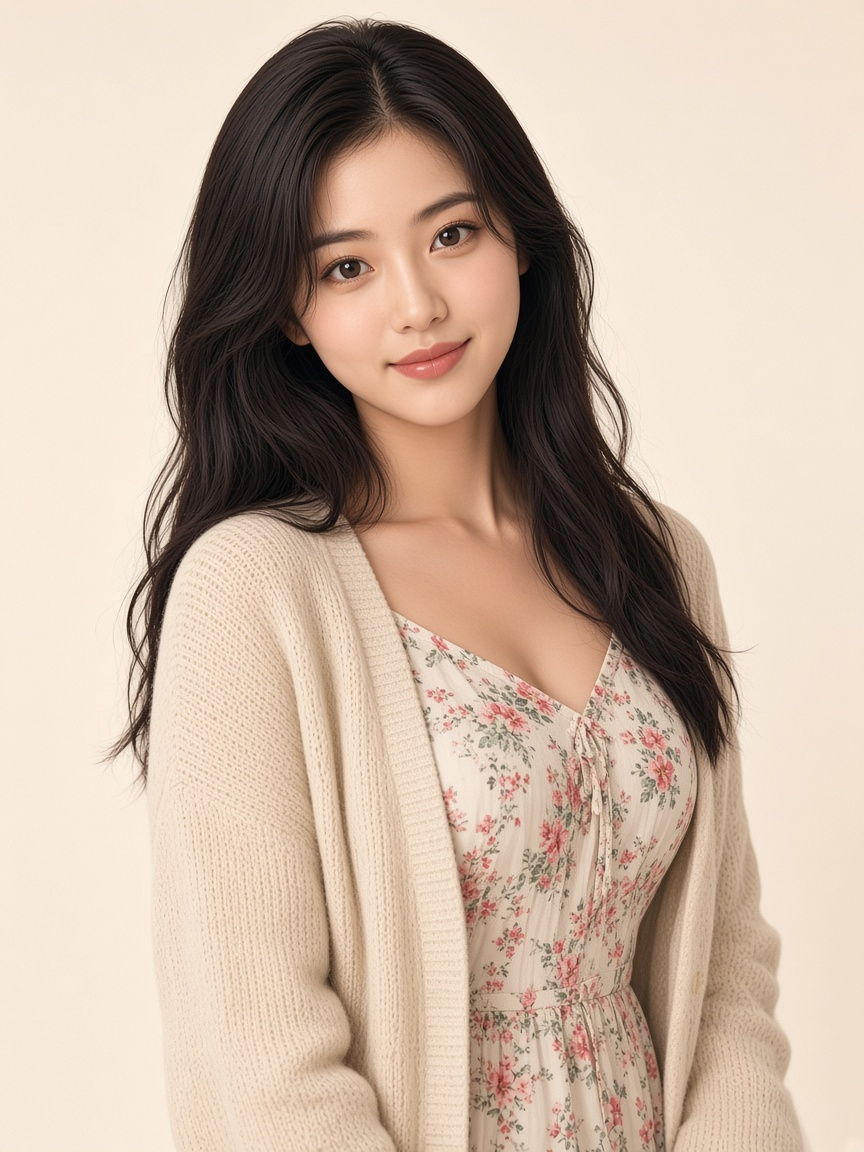
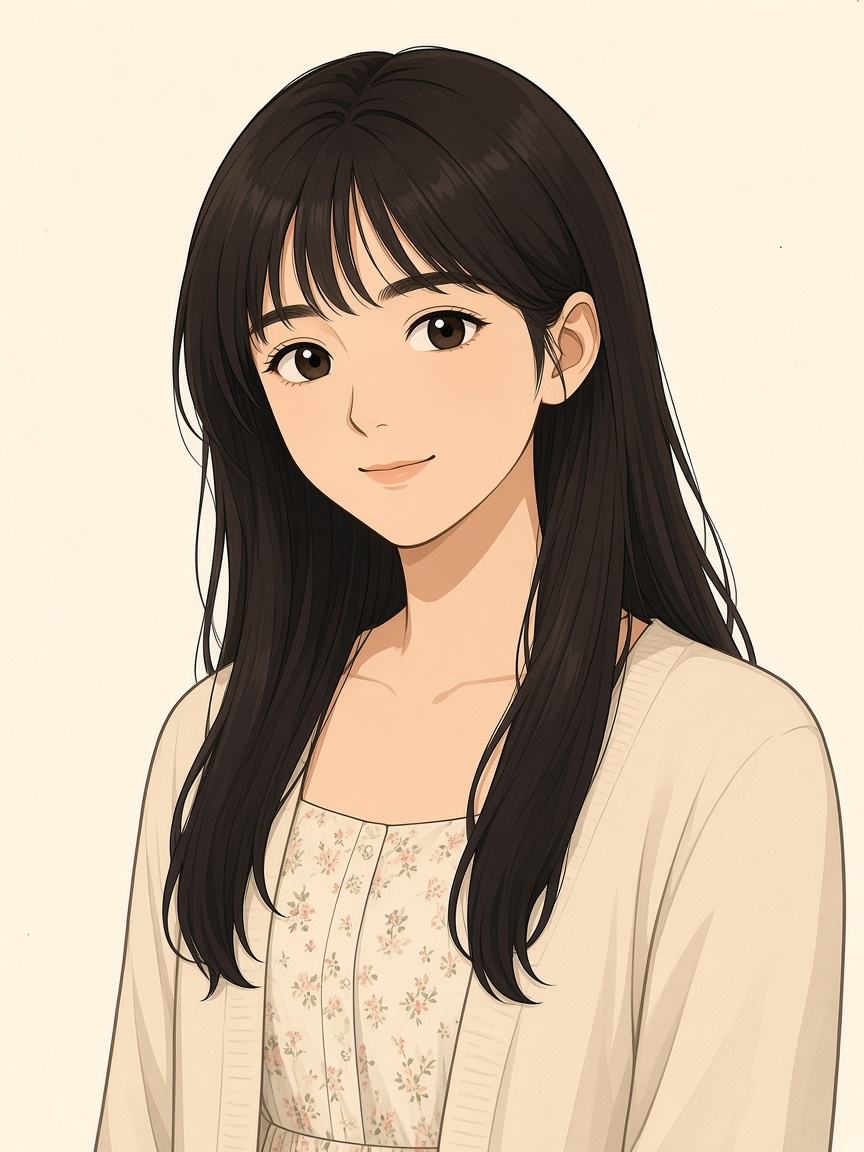
Soft: style-lock era_stars busts ×15 (?v=19w)
Install the five era-star stems × default/smile/frown cel-shade busts.
Silhouettes stay off the tree. SAVE and ?v= stay 19w. Soft≠PASS.

diff --git a/assets/story/era_stars/MANIFEST.md b/assets/story/era_stars/MANIFEST.md
@@ -1,14 +1,65 @@
-# Era stars — MANIFEST
+# Era Stars bust／silhouette — MANIFEST
 
-> 2026-11-04 · 19w · 只掛本 pack 入面已 Soft 過嘅 `so_jiyan`  
-> Soft≠PASS。唔 tip。1989–1992 HOLD。出圖 HOLD。遠觀仍係純文字，呢批 bust 未接剪影。
+> **時間：** 2026-11-05（Asia/Hong_Kong）  
+> **Brief：** `content/ART_BRIEF_MVP_ERA_STARS_v1.md`  
+> **LOOKS：** `content/PLAN_CHAR_LOOKS_REF_v1.md` §C  
+> **Pipeline：** cursor **GenerateImage**（refs `hero_awi.jpg`＋`char_hero_bust_default.png`）→ Pillow cover-crop **864×1152** PNG  
+> **狀態：** **Style-lock redo 2026-11-05** — 5 人 ×3 表情＝15 bust 已換平面動畫／cel-shade；Soft≠PASS；**唔 tip LIVE**；**1989–1992 HOLD**；**silhouettes 後掛（未動）**
 
-## 已合
+## Style-lock MD5（installed live）
 
-| id | display | files | dims |
-|---|---|---|---|
-| `so_jiyan` | 蘇芷茵 | `so_jiyan_bust_{default,smile,frown}.png` | 864×1152 |
+| file | MD5 |
+|---|---|
+| `liu_bingxing_bust_default.png` | `7c82553e3b6f47c4609486e23c23361f` |
+| `liu_bingxing_bust_frown.png` | `2eb8d4bb888f19f80ae80202e6e5e166` |
+| `liu_bingxing_bust_smile.png` | `225d30e6214c14c185e302d984fe239f` |
+| `luk_baakyin_bust_default.png` | `1b8f1229b3cac9dc54d62454d4c417b0` |
+| `luk_baakyin_bust_frown.png` | `b6cbfd292a4a14048727ea351012ca9b` |
+| `luk_baakyin_bust_smile.png` | `44ec979ade01184b81629adcf4143e60` |
+| `ngai_wingnaam_bust_default.png` | `90305768c0bf93c538b6c6a8e84d554c` |
+| `ngai_wingnaam_bust_frown.png` | `1e86e3dbca3c7d0c35c500df25924992` |
+| `ngai_wingnaam_bust_smile.png` | `796214d76561cc8e6c1553a42827e7a1` |
+| `so_jiyan_bust_default.png` | `f54d3e27db3b11cc2eb2bdd9d9bfbc77` |
+| `so_jiyan_bust_frown.png` | `ae224754340405678b5d58a00112e207` |
+| `so_jiyan_bust_smile.png` | `9d2473603c34be753bc551c7c4450629` |
+| `yip_manji_bust_default.png` | `e8860a880fd1c46c88b577699c6a1fb1` |
+| `yip_manji_bust_frown.png` | `0782825acadecc6978f271f0c3c09f60` |
+| `yip_manji_bust_smile.png` | `bd9695324fc950a0b8d4dba03a045d89` |
 
-本 pack 冇其他 era star 檔。`luk_baakyin`／`liu_bingxing`／`ngai_wingnaam`／`yip_manji` 唔係今次合入。
+## Inventory
 
-Soft≠PASS。
+| id | display | files | dims | notes |
+|---|---|---|---|---|
+| `luk_baakyin` | 陸柏言 | `*_bust_{default,smile,frown}.png` | 864×1152 | 雙排扣 oversized 西裝＋高領；default／smile／frown；style-lock 2026-11-05 |
+| `yip_manji` | 葉敏芝 | bust×3 | 864×1152 | 貼身 dusty-rose 針織＋高腰感；自信／笑／鼓腮 pout |
+| `so_jiyan` | 蘇芷茵 | bust×3 | 864×1152 | 淺色開襟＋碎花；恬靜／淺笑／微憂 |
+| `liu_bingxing` | 廖炳星 | bust×3 | 864×1152 | 花恤衫；微翹／壞笑／吃癟 |
+| `ngai_wingnaam` | 魏詠男 | bust×3 | 864×1152 | 純色 navy 運動外套（無三白條）＋黑背心；frown 性別漂 v1 已 regen |
+
+**Bust 底：** cream studio ~`#F2EBD8`（跟 C1／阿偉）。  
+**bak：** 舊稿留盤，未入本 PR（tar 只有 live 15）。  
+**Silhouette：** 本 repo 無 `*_silhouette_*`。本輪唔加、唔改。遠觀仍係純文字，bust 未掛上畫面。`?v=` 仍 `19w`。SAVE `starVolunteer_map_v19w`。
+
+## Soft nits（唔擋；Soft≠PASS）
+
+1. `luk_baakyin` smile／default 表情差偏細；酒窩未夠明顯  
+2. `yip_manji` smile 眨眼／咬唇能量偏弱（較接近溫柔笑）  
+3. `liu_bingxing` smile 挑眉峰可再強；花恤印花略密  
+4. **優先** `ngai_wingnaam` 髮型跨表情未統一（smile 高馬尾 vs default／frown 低馬尾）；年齡觀感略偏年輕於 LOOKS ~38  
+5. 整體略 modern polished anime／manhwa 線密度（同 core Soft nit），仍係平面 2D 家族——非先前半寫實漂移  
+6. Prompt 禁真藝名；LOOKS 靈感只作氣質／wardrobe
+
+## Gates
+
+Soft≠PASS｜唔 tip LIVE｜唔 wake iOS｜89–92 HOLD｜silhouettes 後掛｜`?v=` 仍 `19w`｜SAVE `starVolunteer_map_v19w`
+
+## Pack
+
+`/workspace/star-volunteer-web-style-lock-era-stars.tar.gz`（15 live PNG＋MANIFEST＋STYLE_CANON；bak 留盤）
+
+## Related
+
+- Prior MVP：`/workspace/star-volunteer-web-era-stars-mvp.tar.gz`；ngai fix `/workspace/star-volunteer-web-era-ngai-cork-fix.tar.gz`
+- Core style-lock：`/workspace/star-volunteer-web-style-lock-core-busts.tar.gz`
+- Cheung style-lock：`/workspace/star-volunteer-web-style-lock-cheung.tar.gz`
+- QA：`/workspace/qa-gd-style-lock-era-20261105.md`

diff --git a/assets/STYLE_CANON.md b/assets/STYLE_CANON.md
@@ -33,3 +33,11 @@
 - bak：`assets/story/c1/char_cheung_bust_{default,raise_brow}_pre_style_lock_bak.png`（舊高領半寫實）
 - 身份 jpg `assets/npc_cheung.jpg` 仍係高領較年長記帳，本輪唔改
 - Soft≠PASS；唔 tip LIVE；`?v=` 仍 `19w`；89–92 HOLD；silhouettes 後掛
+
+## Style-lock ERA_STARS redo（2026-11-05 Asia/Hong_Kong）
+
+- 已 redo：`story/era_stars/{luk_baakyin,yip_manji,so_jiyan,liu_bingxing,ngai_wingnaam}_bust_{default,smile,frown}.png`（15）
+- Refs：`hero_awi.jpg`＋`story/c1/char_hero_bust_default.png`
+- 本 Soft tip 只合 live 15 PNG（bak 留盤、唔入本 PR）
+- silhouettes **未動**（本 repo 無 `*_silhouette_*`，亦唔加）。遠觀仍純文字
+- Soft≠PASS；唔 tip LIVE；`?v=` 仍 `19w`；89–92 HOLD
